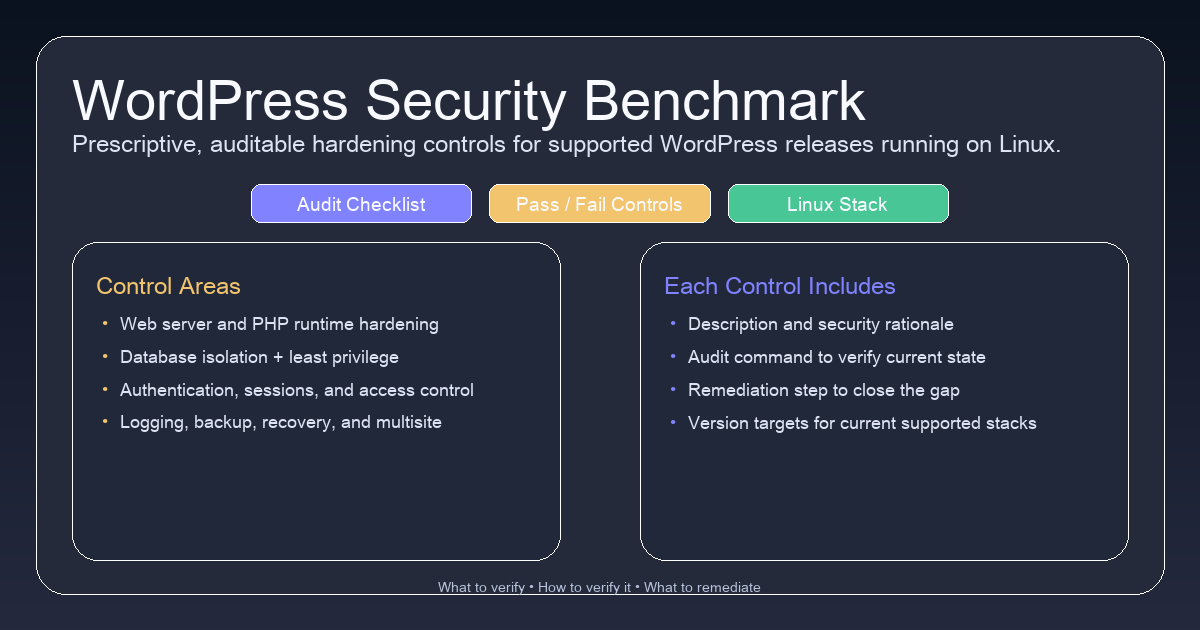
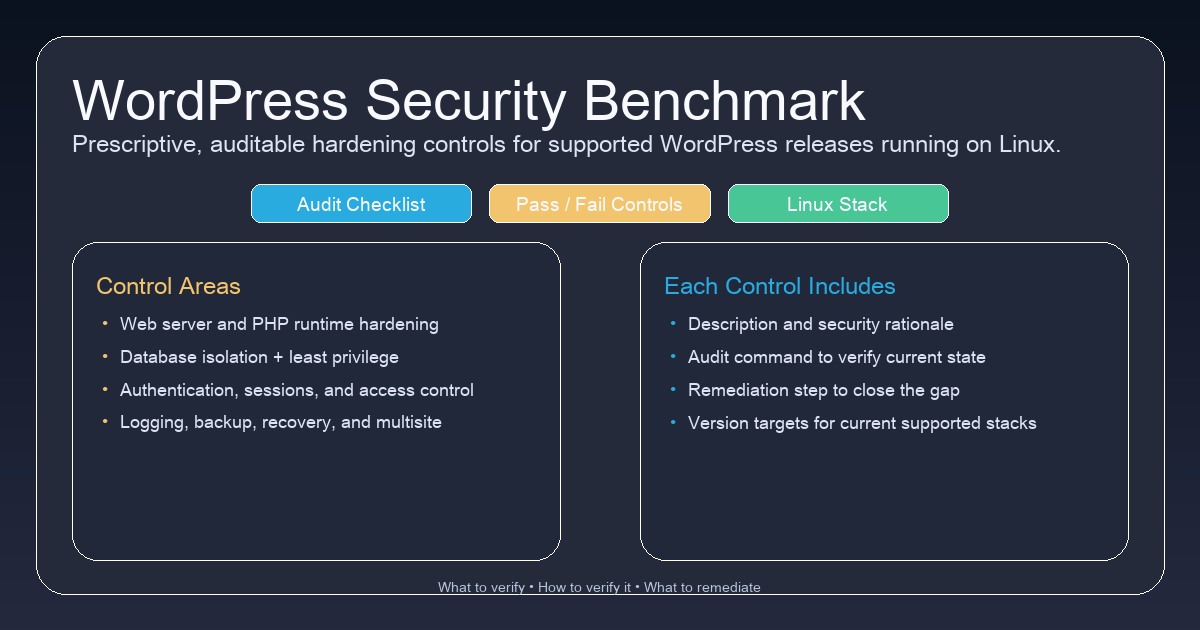
fix: align scripts and assets to Deep Current palette
- apply-palette.mjs: add assets/styles.css to target files (was missed
  after CSS extraction, so palette switching would silently skip the
  stylesheet)
- generate-site-assets.py / generate-project-previews.py: update
  hardcoded Classic Purple constants to Deep Current palette colors
- Regenerated assets: og-image.png, all project preview PNGs + WebPs,
  favicon-32, apple-touch-icon, icon-512 — all now match active palette
  and use the ring logo with transparent background

Changed region(s): [[0.185, 0.2714, 0.4008, 0.3619], [0.555, 0.4222, 0.74, 0.4825]]

diff --git a/scripts/generate-site-assets.py b/scripts/generate-site-assets.py
@@ -11,13 +11,13 @@ ICON_512 = ASSETS / 'icon-512.png'
 APPLE = ASSETS / 'apple-touch-icon.png'
 FAVICON = ASSETS / 'favicon-32.png'
 
-BG = '#272938'
-BG2 = '#0b121e'
-PRIMARY = '#8182ff'
-FOREGROUND = '#c8d2d4'
+BG = '#0D1B2A'
+BG2 = '#071018'
+PRIMARY = '#29ABE0'
+FOREGROUND = '#DCF0F9'
 WHITE = '#ffffff'
-ACCENT = '#74d4a3'
-GOLD = '#f2c46d'
+ACCENT = '#7EE8A2'
+GOLD = '#F5A623'
 
 FONT_REG = '/System/Library/Fonts/Supplemental/Verdana.ttf'
 FONT_BOLD = '/System/Library/Fonts/Supplemental/Verdana Bold.ttf'

diff --git a/scripts/generate-project-previews.py b/scripts/generate-project-previews.py
@@ -32,7 +32,7 @@ MUTED_2 = (184, 196, 221, 255)
 LINE = (255, 255, 255, 32)
 PANEL = (18, 25, 41, 236)
 BOX = (24, 31, 50, 245)
-ACCENT = (129, 130, 255, 255)
+ACCENT = (41, 171, 224, 255)
 GOLD = (242, 196, 109, 255)
 GREEN = (72, 198, 150, 255)
 RED = (210, 102, 109, 255)
